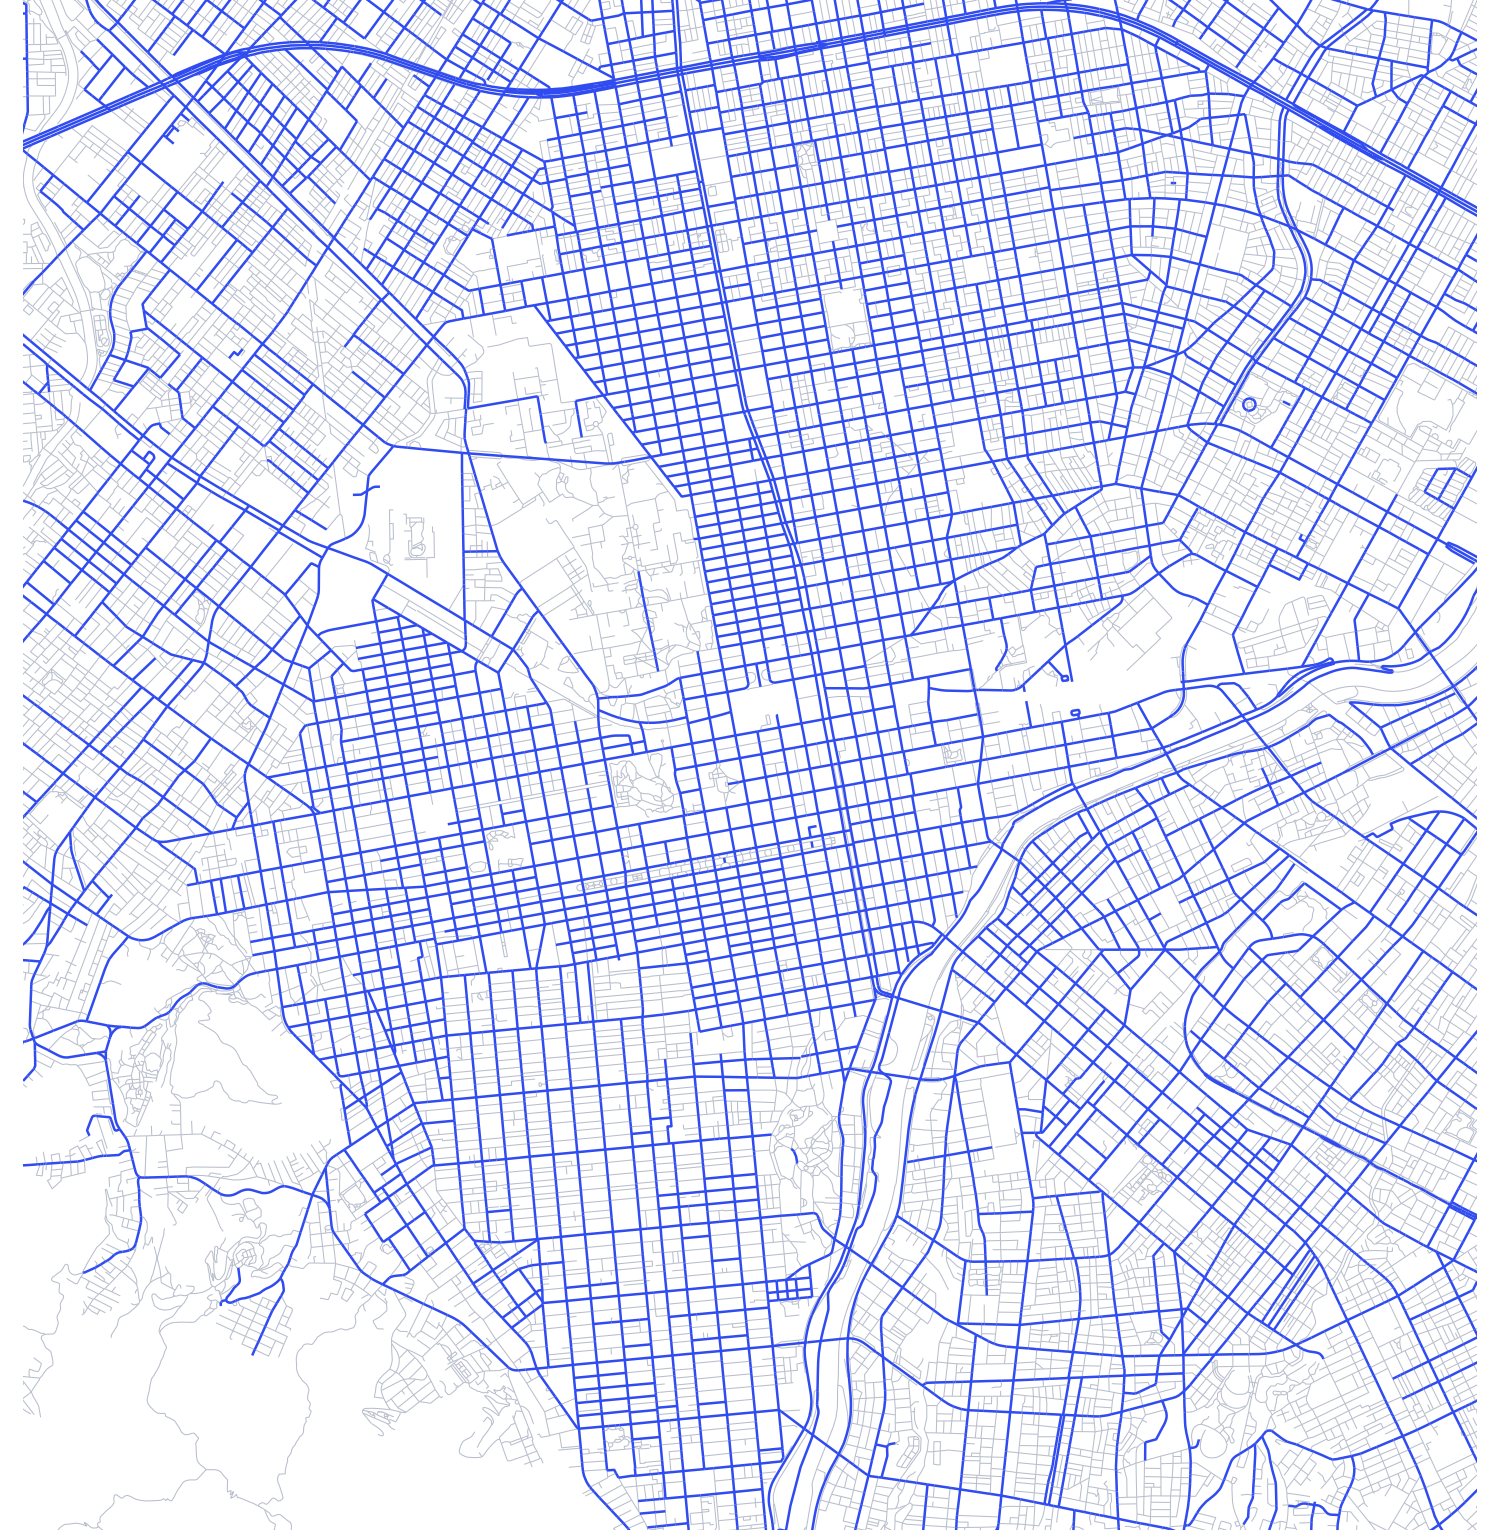
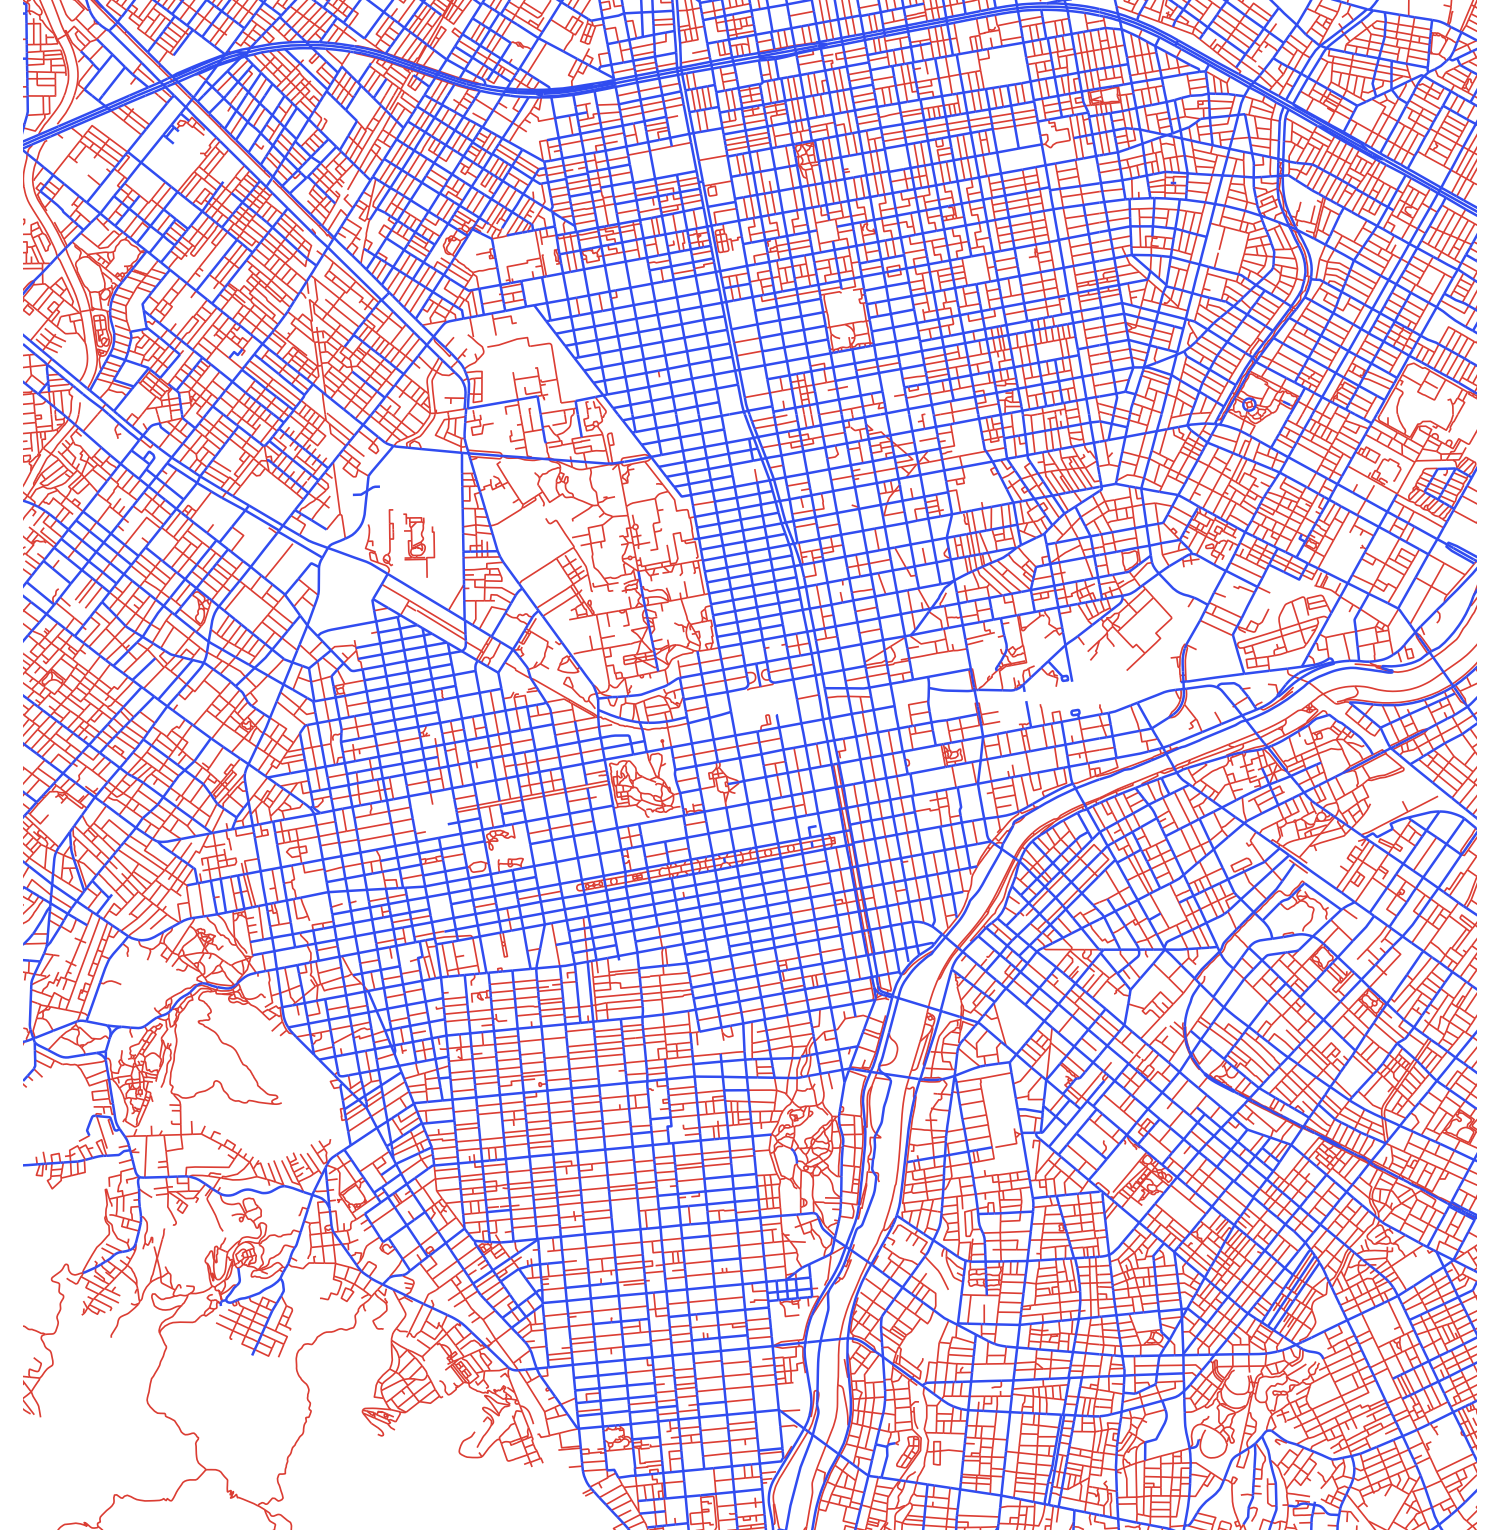
feat: 道路データの地図で、経路探索に使わない道路をグレーから赤にして目立たせる（#47）
Claude-Session: https://claude.ai/code/session_01LQyb2DaLjZD8gbnWVd1mAx

diff --git a/docs/foss4g-2026/slides/build.py b/docs/foss4g-2026/slides/build.py
@@ -221,7 +221,7 @@ text(s, 0.61, 6.55, 6.6, 0.35, [[('一方通行・速度の属性は無い', {'b
      size=13)
 image(s, SHOTS / 'ksj_roads_sapporo.png', 7.73, 1.72, w=5.0, name='map')
 text(s, 7.73, 6.85, 5.0, 0.4, [[('━', {'color': BLUE, 'bold': True}), (' 経路探索に使う道路（国道・都道府県道・高速・幅員 5.5m 以上）', {})],
-                               [('━', {'color': GRAY, 'bold': True}), (' それ以外　札幌中心部・出典: 国土数値情報（道路）', {})]],
+                               [('━', {'color': RGBColor(0xDB, 0x3D, 0x33), 'bold': True}), (' それ以外　札幌中心部・出典: 国土数値情報（道路）', {})]],
      size=10, color=MUTED, line=1.1)
 
 # ---------------------------------------------------------------- 5. これまでの取り組み

diff --git a/docs/foss4g-2026/slides/roads_map.py b/docs/foss4g-2026/slides/roads_map.py
@@ -35,7 +35,7 @@ for c3, c6, wkb in rows:
 
 fig = plt.figure(figsize=(5.0, 5.1), dpi=300)
 ax = fig.add_axes((0, 0, 1, 1))
-ax.add_collection(LineCollection(other, colors='#B8BECC', linewidths=0.25))
+ax.add_collection(LineCollection(other, colors='#DB3D33', linewidths=0.4))
 ax.add_collection(LineCollection(used, colors='#304CF0', linewidths=0.6))
 ax.set_xlim(X0, X1)
 ax.set_ylim(Y0, Y1)
